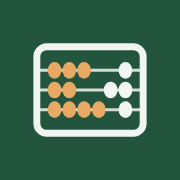
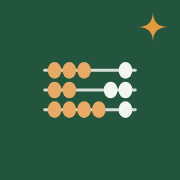
Liczydło 1.35.2: ikona z gwiazdą Studia Pracy Umysłowej
Claude-Session: https://claude.ai/code/session_013SbjNi3Q2T7YHrosSBX6L1

Changed region(s): [[0.1667, 0.2222, 0.8333, 0.7778], [0.7778, 0.0833, 0.9167, 0.2222]]

diff --git a/index.html b/index.html
@@ -2188,7 +2188,7 @@ function applyTheme(m){
 }
 function cycleTheme(){ const k = Object.keys(THEMES), cur = (lsGet(THEME_KEY) || 'auto'), m = k[(k.indexOf(cur) + 1) % k.length]; lsSet(THEME_KEY, m); applyTheme(m); opFeat('motyw'); toast(`Motyw: ${THEMES[m]}.`); }
 applyTheme(lsGet(THEME_KEY));
-const APP_VERSION = '1.35.1';
+const APP_VERSION = '1.35.2';
 const DATA_DATE = '22.11.2026';
 // Producent w filtrze szczepionek – jedna nazwa na firmę (Ceva-Phylaxia → Ceva, Lohmann → Elanco)
 const MFR = [[/^MSD|Intervet/i, 'MSD Animal Health'], [/^Boehringer/i, 'Boehringer Ingelheim'], [/^Ceva/i, 'Ceva'], [/^Zoetis/i, 'Zoetis'], [/Elanco|Lohmann/i, 'Elanco'], [/Hipra/i, 'Hipra'], [/Calier/i, 'Calier'], [/^Phibro/i, 'Phibro'], [/^Fatro/i, 'Fatro'], [/^Huvepharma/i, 'Huvepharma'], [/^IZO/i, 'IZO / Genera'], [/laboratorium/i, 'autogenne (laboratorium)']];

diff --git a/sw.js b/sw.js
@@ -1,7 +1,7 @@
 /* Liczydło APP – service worker (praca bez internetu i aktualizacje)
    Przy każdej nowej wersji zmienia się VERSION – telefon pobiera wtedy nowe pliki
    i pokazuje pasek „Dostępna nowa wersja”. */
-const VERSION = '1.35.1';
+const VERSION = '1.35.2';
 const CACHE = 'liczydlo-app-' + VERSION;
 const FONTS = 'liczydlo-fonts';
 const ASSETS = ['./', './index.html', './manifest.webmanifest', './icons/icon-192.png', './icons/icon-512.png', './icons/icon-maskable-512.png', './icons/apple-touch-icon.png'];
